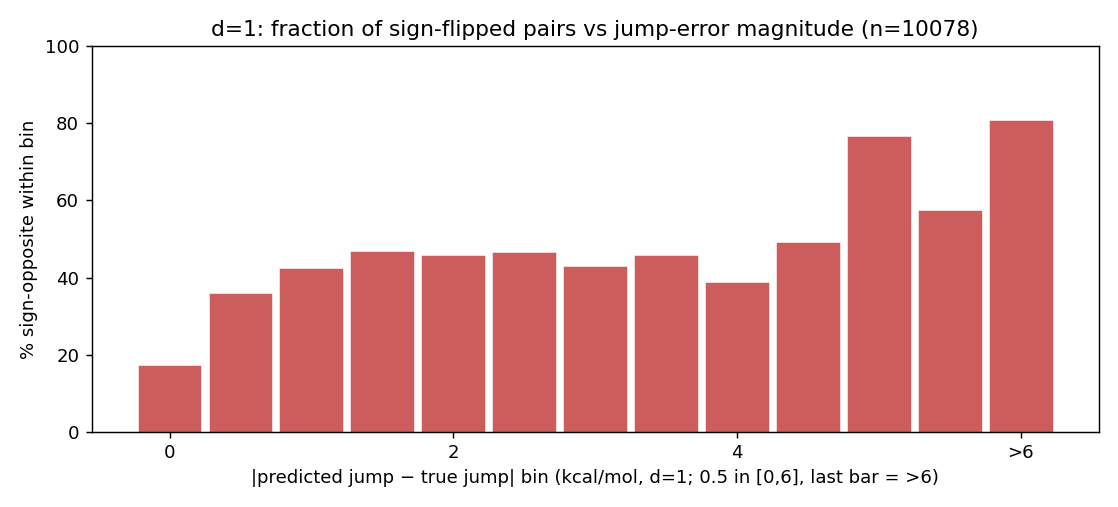
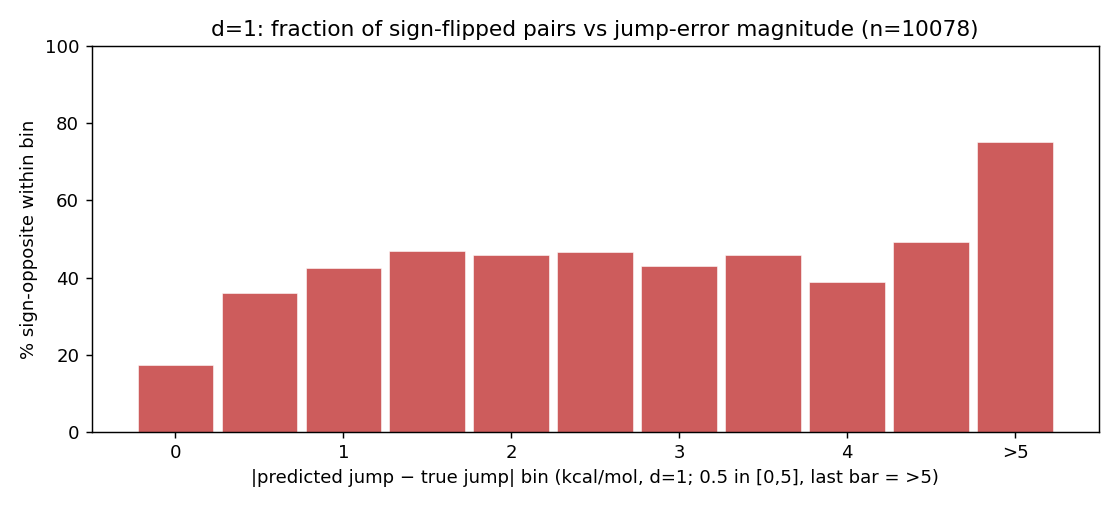
mutation-cliff §4.2: both d=1 figures bins -> [0,5) step 0.5 + >5 (>5 hist 1.6%, sign-flip 75% n=165)

diff --git a/reproduce/mutation_cliff_viz.py b/reproduce/mutation_cliff_viz.py
@@ -229,17 +229,17 @@ print(ext[["PDB","site","d","ddG_A","ddG_B","true_jump","pred_jump","diff_percen
 d1e=P[P.d==1].copy(); d1e["jerr"]=(d1e.pred_jump-d1e.true_jump).abs()
 print(f"\n=== d=1 |pred_jump−true_jump| 分布: n={len(d1e)} range[{d1e.jerr.min():.2f},{d1e.jerr.max():.2f}] "
       f"mean={d1e.jerr.mean():.2f} median={d1e.jerr.median():.2f} p90={d1e.jerr.quantile(.9):.2f} p99={d1e.jerr.quantile(.99):.2f} ===")
-# 分桶:[0,6) step=0.5(12 桶)+ 一个 >6 桶;y 轴为占比(%)
-hedges=[round(0.5*i,1) for i in range(13)]+[1e9]
+# 分桶:[0,5) step=0.5(10 桶)+ 一个 >5 桶;y 轴为占比(%)
+hedges=[round(0.5*i,1) for i in range(11)]+[1e9]
 hcnt=np.histogram(d1e.jerr.values,bins=hedges)[0]
 hpct=100*hcnt/len(d1e)
 hxs=np.arange(len(hpct))
 fig,ax=plt.subplots(figsize=(7.2,3.9))
 ax.bar(hxs,hpct,width=0.9,color="steelblue",edgecolor="white",linewidth=0.3)
-ax.set_xticks([0,4,8,12]); ax.set_xticklabels(["0","2","4",">6"])
-ax.set_xlabel("|predicted jump − true jump| (kcal/mol, d=1; bin=0.5 in [0,6], last bar = >6)")
+ax.set_xticks([0,2,4,6,8,10]); ax.set_xticklabels(["0","1","2","3","4",">5"])
+ax.set_xlabel("|predicted jump − true jump| (kcal/mol, d=1; bin=0.5 in [0,5], last bar = >5)")
 ax.set_ylabel("percentage of d=1 pairs (%)")
-ax.set_title(f"d=1 jump-prediction error (n={len(d1e)}; median={d1e.jerr.median():.2f}, p90={d1e.jerr.quantile(.9):.2f}, >6={100*(d1e.jerr>6).mean():.1f}%)")
+ax.set_title(f"d=1 jump-prediction error (n={len(d1e)}; median={d1e.jerr.median():.2f}, p90={d1e.jerr.quantile(.9):.2f}, >5={100*(d1e.jerr>5).mean():.1f}%)")
 fig.tight_layout(); fig.savefig(os.path.join(OUT,"d1_jumperr_hist.png")); plt.close(fig)
 
 # 同一分桶({0~4 by 0.1}∪{>4},按 |pred−true| 误差):每桶内 真值/预测跳变 符号相反的占比
@@ -252,8 +252,8 @@ for i in range(len(flip)):
     if fn[i]: print(f"  {hedges[i]:.1f}{'+' if i==len(flip)-1 else f'–{hedges[i+1]:.1f}'}: n={fn[i]} flip={flip[i]:.0f}%")
 fig,ax=plt.subplots(figsize=(8.6,3.9))
 ax.bar(hxs,flip,width=0.9,color="indianred",edgecolor="white",linewidth=0.3)
-ax.set_xticks([0,4,8,12]); ax.set_xticklabels(["0","2","4",">6"])
-ax.set_xlabel("|predicted jump − true jump| bin (kcal/mol, d=1; 0.5 in [0,6], last bar = >6)")
+ax.set_xticks([0,2,4,6,8,10]); ax.set_xticklabels(["0","1","2","3","4",">5"])
+ax.set_xlabel("|predicted jump − true jump| bin (kcal/mol, d=1; 0.5 in [0,5], last bar = >5)")
 ax.set_ylabel("% sign-opposite within bin"); ax.set_ylim(0,100)
 ax.set_title(f"d=1: fraction of sign-flipped pairs vs jump-error magnitude (n={len(d1e)})")
 fig.tight_layout(); fig.savefig(os.path.join(OUT,"d1_signflip_by_err.png")); plt.close(fig)

diff --git a/reproduce/RESEARCH_MOTIVATION_mutation_cliff.md b/reproduce/RESEARCH_MOTIVATION_mutation_cliff.md
@@ -139,12 +139,12 @@
 **d=1 全体的预测跳变误差分布**: 在所有 d=1 对(n=10078)上,`|预测跳变 − 真值跳变|` 的范围是 **[0.00, 14.04] kcal/mol**,
 mean 1.19 / median 0.85 / p90 2.61 / p99 5.83;**32.7% 的对 <0.5(预测准),但 17.3% >2、3.3% >4(严重失配)**。
 分布呈**长右尾**——多数 d=1 对预测尚可,但拖着一条粗重的"严重失配"尾巴(即上面"不正常组"那类 cliff)。
-(下图: 误差按 [0,6) 间隔 0.5 分桶、>6 聚成最后一根柱;纵轴为占全部 d=1 对的百分比,故 >6 那根柱仅 0.9%。)
+(下图: 误差按 [0,5) 间隔 0.5 分桶、>5 聚成最后一根柱;纵轴为占全部 d=1 对的百分比,故 >5 那根柱仅 1.6%。)
 
 <img src="mutation_analysis/d1_jumperr_hist.png" width="520">
 
 **同一分桶下,每个误差桶内"真值跳变 vs 预测跳变 符号相反"的占比**: 误差越大,符号判反的比例越高——
-从最小误差桶([0,0.5))的 **17%** 升到误差 ~1.5–3 的 **~45–47%**,**>6 误差桶达 81%**(n=89;高误差桶样本少、有抖动)。
+从最小误差桶([0,0.5))的 **17%** 升到误差 ~1.5–3 的 **~45–47%**,**>5 误差桶达 75%**(n=165;高误差桶样本少、有抖动)。
 说明**大误差不只是幅度压扁,相当一部分直接把方向也判反**(误差 >1.5 时已近半数符号相反)。
 
 <img src="mutation_analysis/d1_signflip_by_err.png" width="520">
